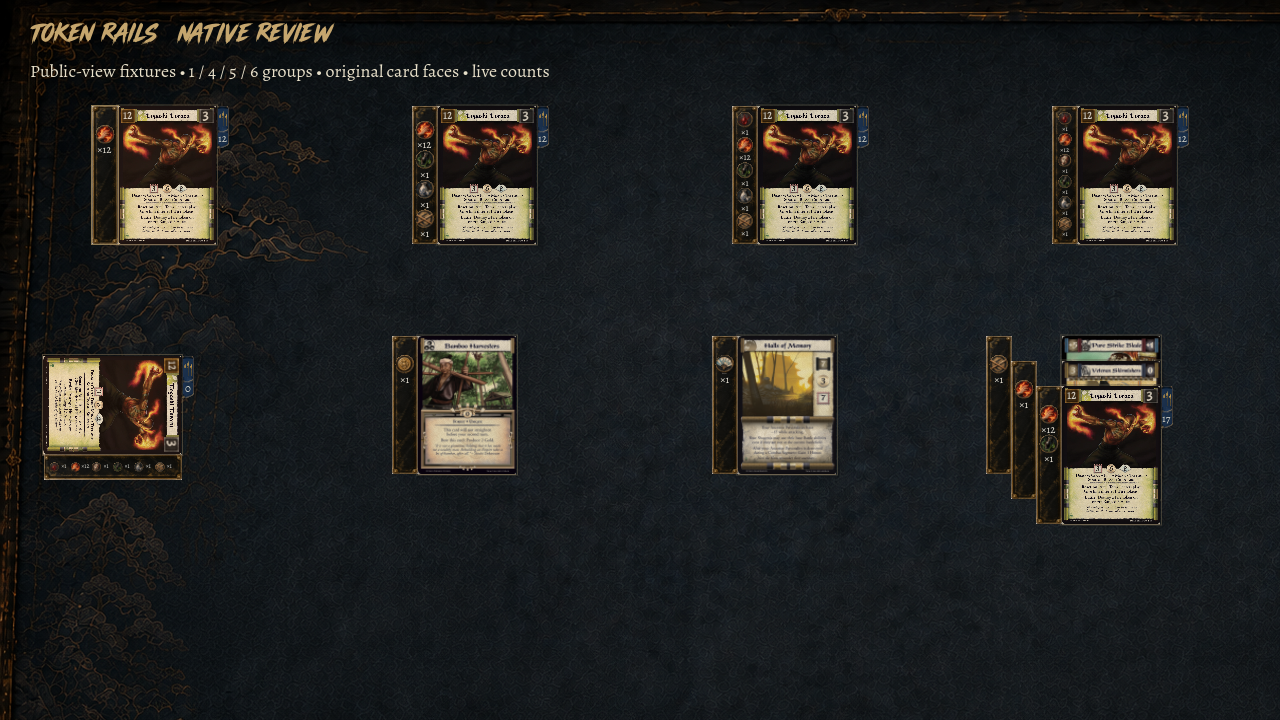
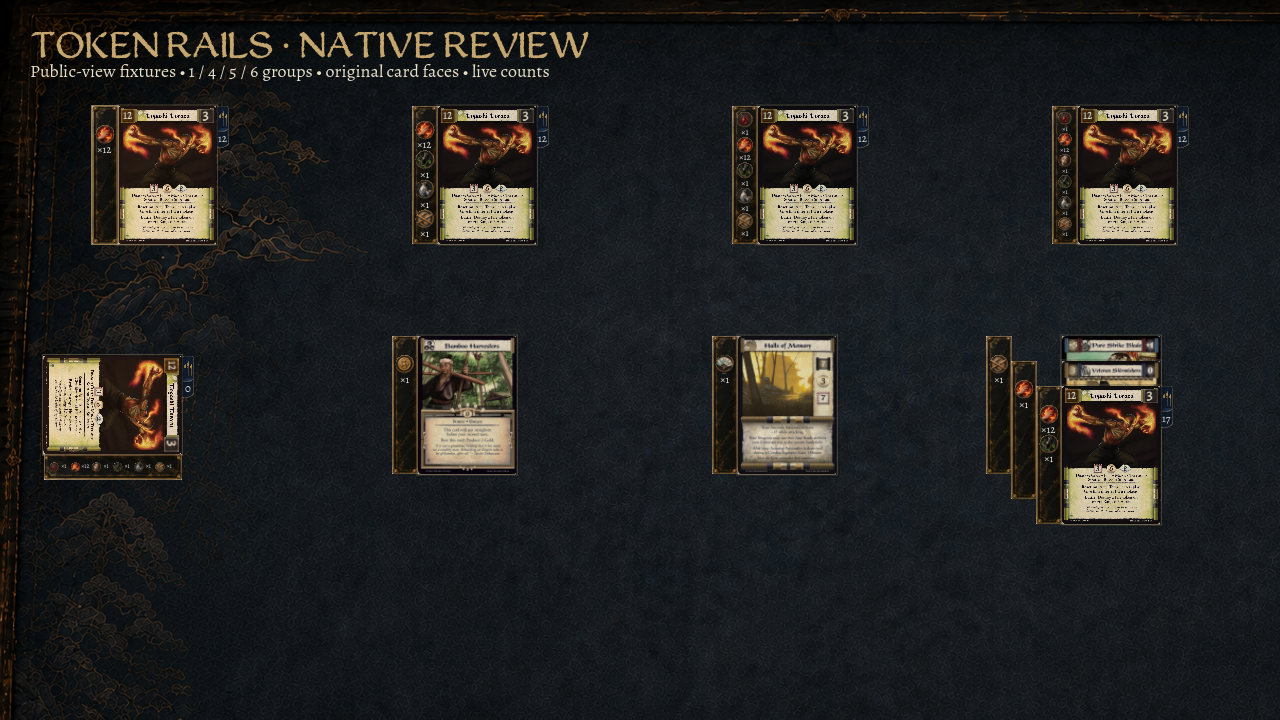
Restore deep navy woven canvas to card-mounted ribbons

diff --git a/src/L5R.Client/UnitStandard.cs b/src/L5R.Client/UnitStandard.cs
@@ -48,19 +48,24 @@ public partial class UnitStandard : StatTokens
     }
 
     public override bool _HasPoint(Vector2 point) => _body.HasPoint(point);
-    private static Texture2D? _spears;
+    private static Texture2D? _spears, _canvas;
     public override void _Draw()
     {
         if (Card.UnitForce is not int total) return;
         _art ??= GD.Load<Texture2D>("res://Art/unit-ribbon-reference.png");
         _spears ??= GD.Load<Texture2D>("res://Art/card-token-hardware.png");
+        _canvas ??= GD.Load<Texture2D>("res://Art/unit-standard-mounted.png");
         foreach(var shape in Silhouettes)
             DrawColoredPolygon(shape.Select(FromSource).ToArray(),Colors.White,shape.Select(p=>p/_art.GetSize()).ToArray(),_art);
         // Reuse C's actual outline and curved divider; replace only baked semantic pixels.
         Rect2 Patch(float x,float y,float w,float h) => new(FromSource(new Vector2(x,y)),new Vector2(w/41*_body.Size.X,h/145*_body.Size.Y));
-        var blank=new Rect2(457,244,16,5);
-        DrawTextureRectRegion(_art,Patch(451,210,32,38),blank);
-        DrawTextureRectRegion(_art,Patch(451,129,33,62),blank);
+        // Restore the earlier woven canvas using a full 2D cloth swatch, without
+        // stretching a five-pixel row. Keep C's short silhouette and gold rim.
+        Vector2[] cloth=[new(450,122),new(480,122),new(485,126),new(485,245),new(481,251),new(471,256),new(450,260)];
+        DrawColoredPolygon(cloth.Select(FromSource).ToArray(),new Color(.66f,.70f,.76f),
+            cloth.Select(p=>(new Vector2(360,680)+(p-new Vector2(450,122))/new Vector2(35,138)*new Vector2(142,560))/_canvas.GetSize()).ToArray(),_canvas);
+        Vector2[] divider=[new(450,197),new(484,191),new(484,199),new(475,207),new(460,209),new(450,206)];
+        DrawColoredPolygon(divider.Select(FromSource).ToArray(),new Color(.88f,.88f,.88f),divider.Select(p=>p/_art.GetSize()).ToArray(),_art);
         Vector2[][] spearShapes = [
             [new(679,255),new(701,335),new(686,347),new(686,480),new(680,496),new(674,480),new(674,348),new(657,344)],
             [new(733,210),new(757,310),new(742,325),new(742,333),new(753,334),new(753,343),new(741,343),new(741,484),new(734,500),new(727,483),new(727,343),new(715,343),new(715,334),new(727,333),new(726,325),new(710,314)],

diff --git a/src/L5R.Client/Main.BattleJournal.cs b/src/L5R.Client/Main.BattleJournal.cs
@@ -71,7 +71,7 @@ public partial class BattleDefeatBanner : Control
     public override void _Ready()
     {
         MouseFilter=MouseFilterEnum.Ignore; ZIndex=45; Visible=false;
-        _headline=Palette.Wrapped("",34,new Color("e8b6a0")); _headline.AddThemeFontOverride("font",Palette.Title); _headline.HorizontalAlignment=HorizontalAlignment.Center; AddChild(_headline);
+        _headline=Palette.Wrapped("",34,new Color("e8b6a0")); _headline.Uppercase=true; _headline.AddThemeFontOverride("font",Palette.Title); _headline.HorizontalAlignment=HorizontalAlignment.Center; AddChild(_headline);
         _cause=Palette.Wrapped("",17,Palette.PaperDim); _cause.HorizontalAlignment=HorizontalAlignment.Center; AddChild(_cause);
     }
     public override void _Draw()

diff --git a/docs/screenshots/token-rails/README.md b/docs/screenshots/token-rails/README.md
@@ -16,3 +16,5 @@ Client compilation and headless Godot import passed. Build reported NU1900 becau
 `bash tools/check.sh --skip-client` passed 277 deterministic checks: 37 content + 107 workflow + 70 core + 33 published + 8 deck format + 13 AI + 5 server + 4 transport. This ran on the integrated branch before the final cosmetic adjustments; subsequent main changes were roadmap documentation only. No task changes were made to authoritative rules.
 
 The source comparison, small, perspective, bowed-attachment and actual battle screenshots were visually reviewed. These are native Mac results; Windows graphical playtesting and expert acceptance of token rules are not claimed. The short ribbon reads the engine's UnitForce rather than calculating battle contribution in the client.
+
+Final 2026-09-09 refinement captures include the combined preview with PR99’s uppercase Weathered Quill headings. The ribbon now uses the earlier woven canvas, deeper navy and mipmapped filtering. Final normal/small/perspective/bowed-attachment/comparison fixtures and actual battle passed; source/native material and plaque spacing reviewed. Current-main integration passed 281 checks. The publishing branch still shows its prior heading font until PR99 is integrated.

diff --git a/assets/ui/card-tokens/README.md b/assets/ui/card-tokens/README.md
@@ -19,3 +19,5 @@ Only face-up, identified cards in play show rails. Personalities, Holdings, Stro
 The short right ribbon reads the engine's UnitForce, including zero. This change adds no rules, makes no token effects authoritative in the client and does not make catalogue cards playable.
 
 Run `bash tools/check-token-rails.sh` on a native graphical Mac. Evidence and limits are in `docs/screenshots/token-rails/README.md`.
+
+2026-09-09 material refinement: the short ribbon keeps the C outline, gold curved divider and polished spear hardware, but samples a full 2D woven-cloth swatch from the earlier `unit-standard-mounted.png` asset in deeper navy. Mipmaps prevent the weave from aliasing at small table scales; no new generated bitmap or gameplay value changes.
